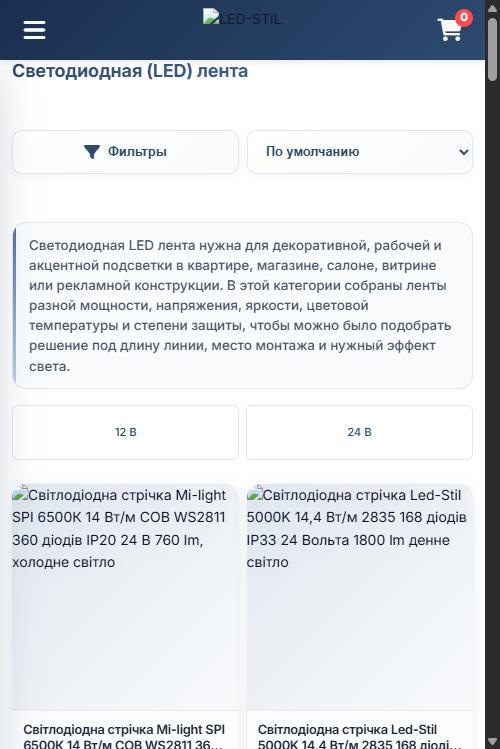
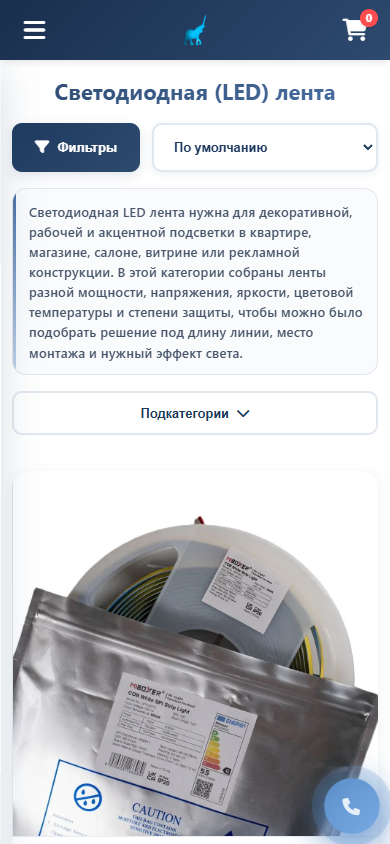
fix: LedStil shots from live site, images intact

diff --git a/assets/shots/MANIFEST.md b/assets/shots/MANIFEST.md
@@ -13,8 +13,8 @@
 
 | файл | проект | источник | размер | тип | статус |
 |---|---|---|---|---|---|
-| ledstil-catalog-1280.png | LedStil | `http://127.0.0.1:8088/public/ru/index.php` — локальный PHP `php -S 127.0.0.1:8088 local-router.php` (сервер чужой, предсуществующий, не трогал), viewport 1280×900 | 128.1 KB | ui | real, eye-ok-20260925 (слайдер/логотип биты в апстриме — отсутствующие ассеты, пересъём не лечит) |
-| ledstil-card-390.png | LedStil | `http://127.0.0.1:8088/ru/led-strip.php` — тот же локальный PHP, viewport 390×844 (mobile) | 134.5 KB | ui | real, eye-ok-20260925 (фото товаров биты в апстриме — видны alt-тексты; пересъём не лечит) |
+| ledstil-catalog-1280.png | LedStil | ПЕРЕСНЯТ 2026-09-25 с live `https://led-stil.info/ru` (Playwright `channel="chrome"` headless, viewport 1280×900, скролл к «СЕКЦИИ/Новинки» — топ-слайдер прода залит оффтопиком, см. риски) | 656.3 KB | ui | real, eye-ok-20260925-live |
+| ledstil-card-390.png | LedStil | ПЕРЕСНЯТ 2026-09-25 с live `https://led-stil.info/ru/led-strip.php` (тот же Playwright, viewport 390×844 mobile) — фото товара грузится, alt-текстов нет | 200.4 KB | ui | real, eye-ok-20260925-live |
 | rag-docs-1280.png | RAG Demo (`C:\Work\RAG-Demo`, lexical-only) | `python -m uvicorn app.main:app --port 8092` → `http://127.0.0.1:8092/docs` (Swagger, только GET; сервер мой, после убит) | 43.5 KB | docs | real, eye-ok-20260925 (все эндпоинты целиком, читаемо) |
 | rag-query-1280.png | RAG Demo | ПЕРЕСНЯТ 2026-09-25: тот же сервер (`uvicorn`, после убит), Swagger Try-it-out `POST /query` `{"question":"What is the return policy?","top_k":3,"retrieval_mode":"lexical"}` → 200, клип блока операции до конца Response headers (без док-хвоста); тело ответа с честным evidence-gate отказом (`sufficient_evidence:false`) видно целиком; данные не тронуты | 56.8 KB | ui | real |
 | ingul-catalog-1280.png | Ingul | ПЕРЕСНЯТ 2026-09-25: `python -m http.server 8091` в `C:\Work\Ingul` → `http://127.0.0.1:8091/html/index.html`, viewport 1280×900; cookie-модалка подавлена пресетом localStorage (`cookiesAccepted`+`languageSelected`, только состояние браузера) — hero «Ваша упаковка — Наша турбота» виден целиком (сервер мой, после убит) | 645.6 KB | ui | real |
